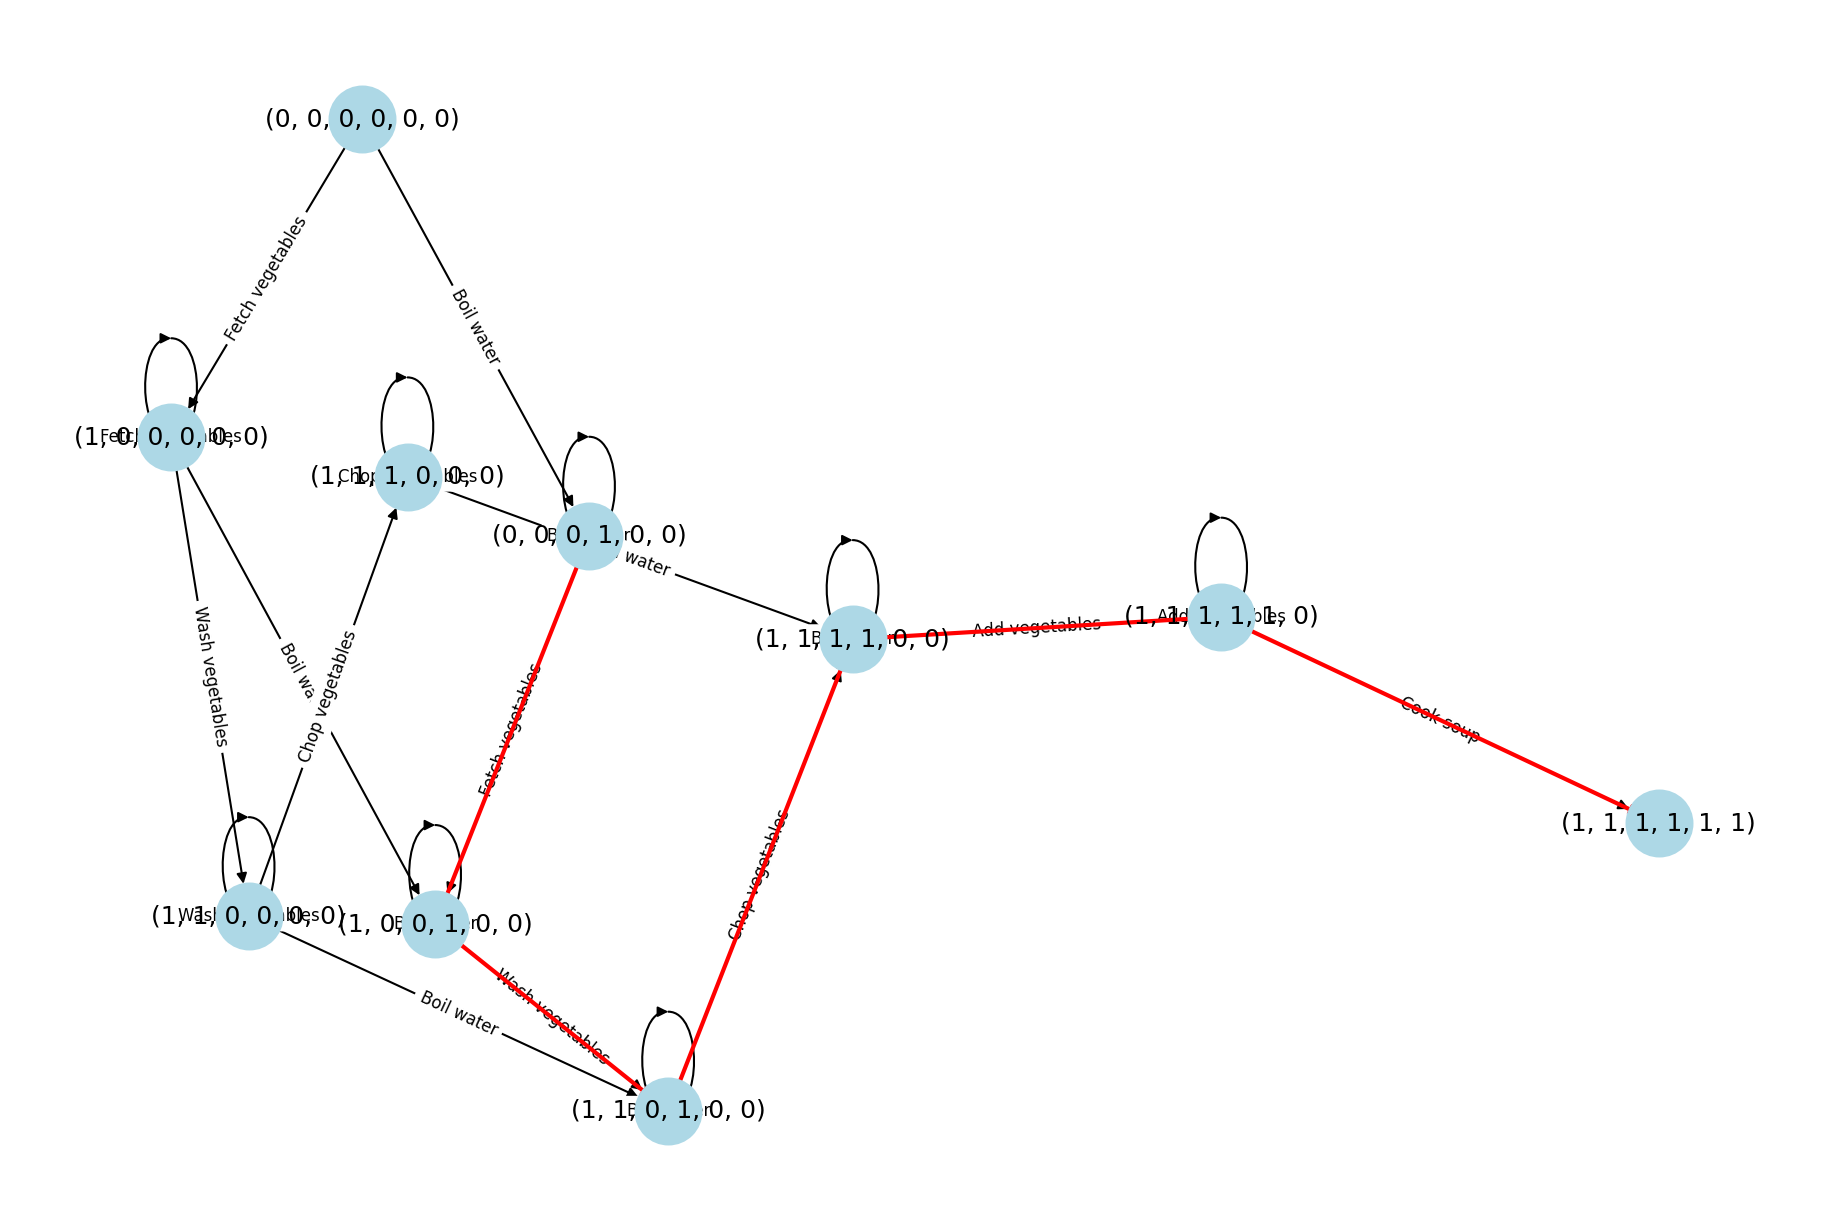
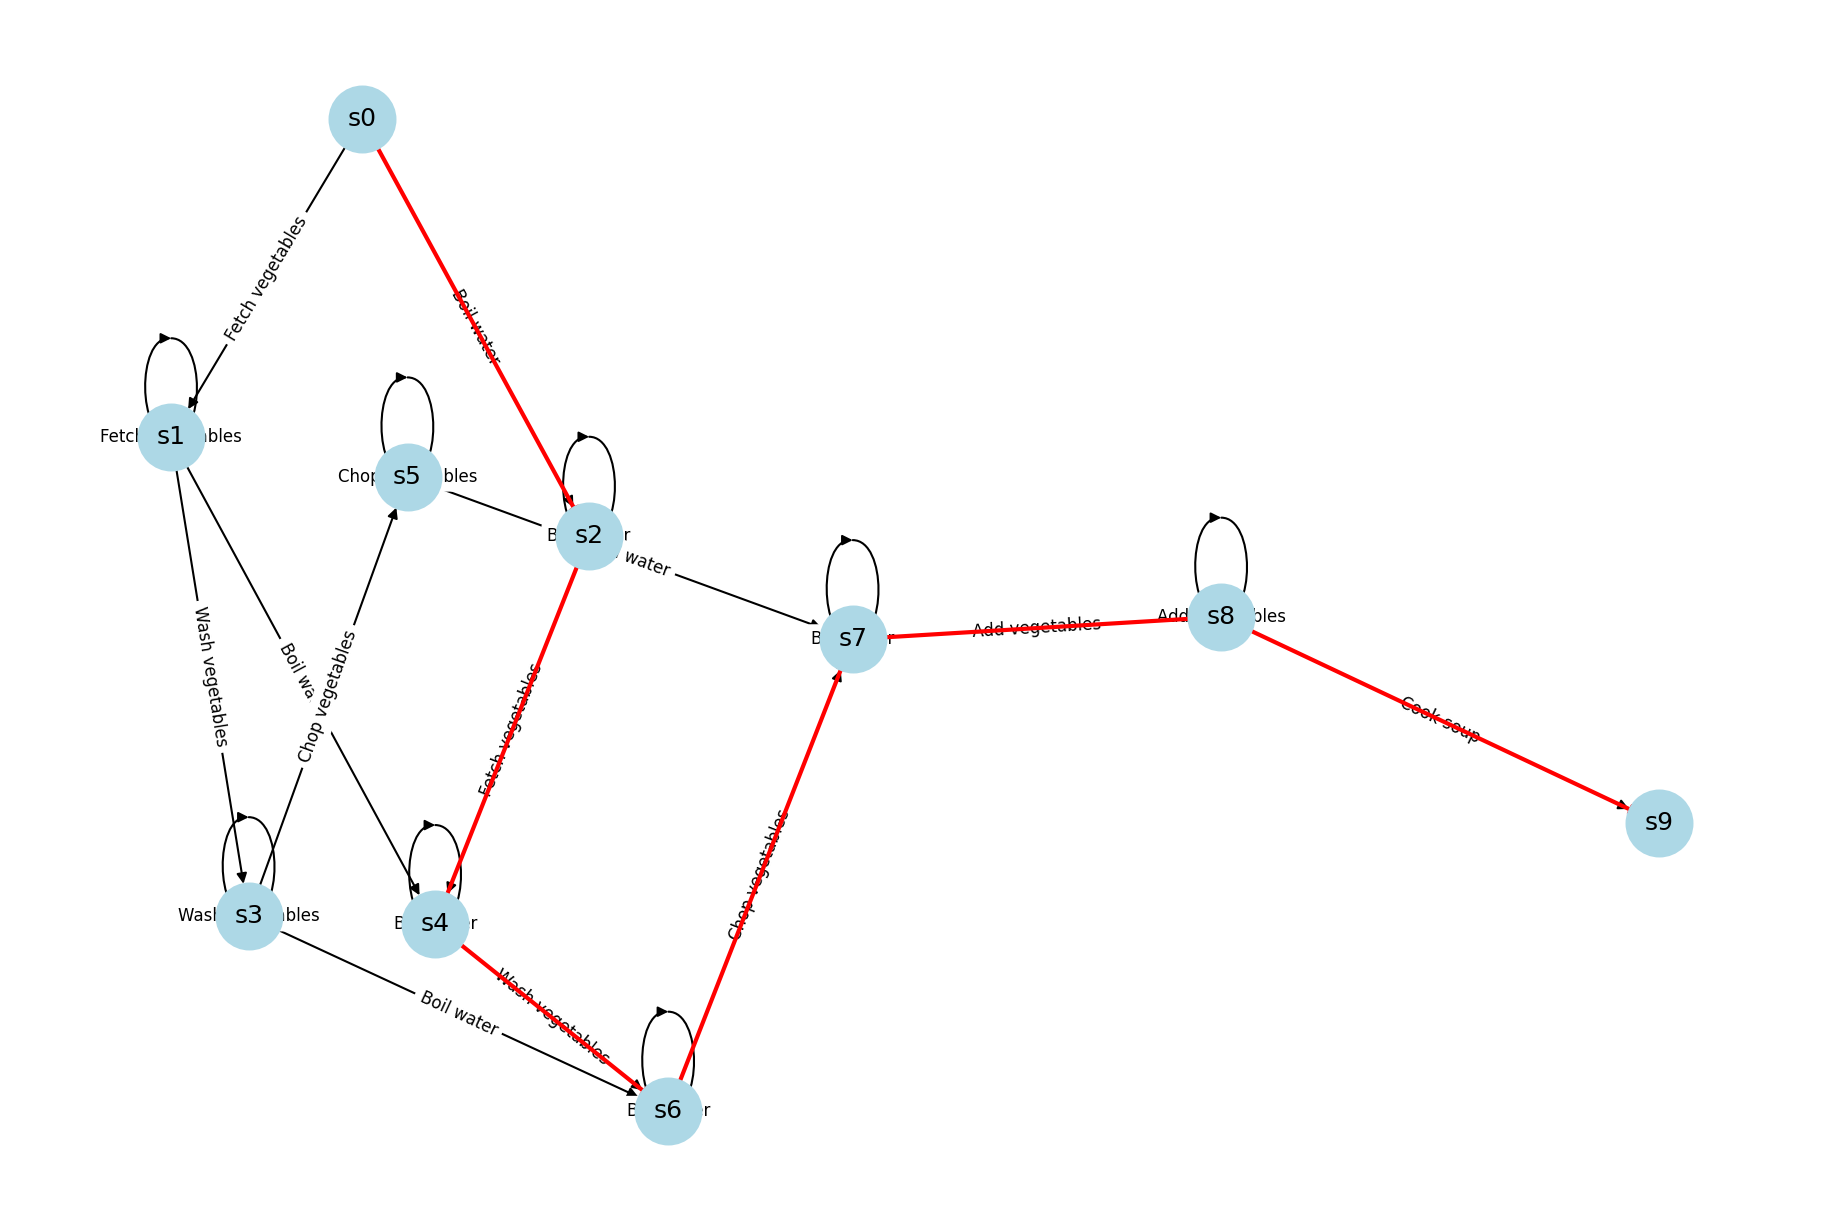
small changes

diff --git a/smart_kitchen_robot_planner.py b/smart_kitchen_robot_planner.py
@@ -1,5 +1,6 @@
 import networkx as nx
 import matplotlib.pyplot as plt
+import logging
 from queue import Queue, PriorityQueue
 import time
 
@@ -15,6 +16,9 @@ actions = {
 
 initial_state = (0,0,0,0,0,0)
 goal_state = (1,1,1,1,1,1)
+
+# configure basic logging for easier debugging
+logging.basicConfig(level=logging.INFO, format="%(levelname)s: %(message)s")
 
 def is_goal(state):
     return state == goal_state
@@ -92,21 +96,52 @@ def a_star(initial):
     return None, 0, nodes_expanded, G
 
 # Visualization function
-def draw_graph(G, path, filename="graph.png"):
+def draw_graph(G, path, filename="graph.png", initial_state=None):
+    """Draw the graph to a PNG file.
+
+    - path is a list of (action, to_state) tuples (as used in the searches).
+    - initial_state (optional) is used so the first edge on the path is highlighted.
+    - Node labels are shortened to s0, s1... to keep the plot readable.
+    """
     pos = nx.spring_layout(G, seed=42)
     plt.figure(figsize=(12,8))
-    nx.draw(G, pos, with_labels=True, node_size=1000, node_color='lightblue')
-    edge_labels = nx.get_edge_attributes(G,'label')
-    nx.draw_networkx_edge_labels(G, pos, edge_labels=edge_labels, font_size=8)
 
+    # Map full state tuples to short labels (s0, s1, ...)
+    nodes = list(G.nodes())
+    label_map = {nodes[i]: f"s{i}" for i in range(len(nodes))}
+
+    # Draw nodes with short labels
+    nx.draw(G, pos, labels=label_map, with_labels=True, node_size=1000, node_color='lightblue')
+    edge_labels = nx.get_edge_attributes(G, 'label')
+    # Replace edge label keys with short names for readability in the plot
+    short_edge_labels = {}
+    for (u, v), lbl in edge_labels.items():
+        short_u = label_map.get(u, str(u))
+        short_v = label_map.get(v, str(v))
+        short_edge_labels[(u, v)] = lbl
+    nx.draw_networkx_edge_labels(G, pos, edge_labels=short_edge_labels, font_size=8)
+
+    # Build the list of edges that form the path. Use initial_state to include first edge.
     path_edges = []
     if path:
-        prev_state = None
+        prev_state = initial_state
+        # If initial_state not provided, try to infer from graph (best-effort)
+        if prev_state is None:
+            # If path contains nodes, attempt to find a node in G that is not the first 'to' node
+            # This is a fallback and may not always work — providing initial_state is best.
+            prev_state = None
         for action, new_state in path:
             if prev_state is not None:
                 path_edges.append((prev_state, new_state))
             prev_state = new_state
-    nx.draw_networkx_edges(G, pos, edgelist=path_edges, edge_color='red', width=2)
+
+    # Draw highlighted path edges (if any) in red. Use short labels for selecting edges.
+    if path_edges:
+        # Ensure edges exist in the graph before drawing
+        valid_edges = [e for e in path_edges if G.has_edge(e[0], e[1])]
+        nx.draw_networkx_edges(G, pos, edgelist=valid_edges, edge_color='red', width=2)
+
+    # Save and close
     plt.savefig(filename, dpi=150, bbox_inches='tight')
     plt.close()
 
@@ -119,7 +154,7 @@ print("BFS Path:", [a for a,_ in bfs_path])
 print("BFS Total Cost:", bfs_cost)
 print("BFS Nodes Expanded:", bfs_nodes)
 print("BFS Execution Time (s):", round(bfs_time,6))
-draw_graph(bfs_graph, bfs_path, "bfs_graph.png")
+draw_graph(bfs_graph, bfs_path, "bfs_graph.png", initial_state=initial_state)
 
 # Run A*
 start_time = time.time()
@@ -130,7 +165,7 @@ print("A* Path:", [a for a,_ in astar_path])
 print("A* Total Cost:", astar_cost)
 print("A* Nodes Expanded:", astar_nodes)
 print("A* Execution Time (s):", round(astar_time,6))
-draw_graph(astar_graph, astar_path, "astar_graph.png")
+draw_graph(astar_graph, astar_path, "astar_graph.png", initial_state=initial_state)
 
 # Comparison Table
 print("\nComparison of BFS vs A*:")

diff --git a/README.md b/README.md
@@ -1,0 +1,113 @@
+# Smart Kitchen Robot Planner — Debugging & Run Instructions
+
+This project contains `smart_kitchen_robot_planner.py`, a small planner that runs BFS and A* over a tiny state space and writes two graph images: `bfs_graph.png` and `astar_graph.png`.
+
+Use this README to set up the environment, reproduce results, and debug the script step-by-step.
+
+Prerequisites
+- macOS with Python 3 installed (recommended: 3.8+).
+- A terminal using zsh (your default shell).
+
+Quick setup (recommended)
+1. Create and activate a virtual environment in the project directory:
+
+```zsh
+python3 -m venv .venv
+source .venv/bin/activate
+```
+
+2. Install runtime dependencies(ifyou don't have them already):
+
+```zsh
+.venv/bin/python3 -m pip install --upgrade pip setuptools wheel
+.venv/bin/python3 -m pip install networkx matplotlib
+```
+
+Run the script
+
+```zsh
+.venv/bin/python3 smart_kitchen_robot_planner.py
+```
+
+This should print summary info for BFS and A* and create `bfs_graph.png` and `astar_graph.png` in the same folder.
+
+Windows instructions (PowerShell and cmd)
+-------------------------------------
+
+If you're on Windows, use the following steps. These examples show PowerShell then cmd variants.
+
+1) Create a virtual environment
+
+PowerShell:
+
+```powershell
+python -m venv .venv
+.\.venv\Scripts\Activate.ps1
+```
+
+cmd.exe:
+
+```cmd
+python -m venv .venv
+.\.venv\Scripts\activate.bat
+```
+
+2) Install dependencies
+
+PowerShell / cmd (after activating the venv):
+
+```powershell
+python -m pip install --upgrade pip setuptools wheel
+python -m pip install networkx matplotlib
+```
+
+3) Run the script
+
+PowerShell / cmd:
+
+```powershell
+python smart_kitchen_robot_planner.py
+```
+
+This will print the BFS / A* summaries and create `bfs_graph.png` and `astar_graph.png` in the project folder.
+
+Debugging on Windows
+--------------------
+
+- Use the traceback: when an exception occurs, copy the full traceback and note the file and line number shown.
+- Interactive debugger (pdb / ipdb):
+	- Run under pdb:
+
+```powershell
+python -m pdb smart_kitchen_robot_planner.py
+```
+
+	- Install and run ipdb for a nicer shell:
+
+```powershell
+python -m pip install ipdb
+python -m ipdb smart_kitchen_robot_planner.py
+```
+
+- Programmatic breakpoints: add `import pdb; pdb.set_trace()` (or `import ipdb; ipdb.set_trace()`) in the file where you want to inspect variables.
+
+- VS Code debugger on Windows:
+	1. Open the project folder in VS Code.
+	2. Install the Python extension if you haven't already.
+	3. Select the interpreter (Command Palette -> "Python: Select Interpreter") and pick the `.venv\Scripts\python.exe` interpreter.
+	4. Open `smart_kitchen_robot_planner.py`, set breakpoints by clicking the gutter, then Run > Start Debugging (F5). You can inspect variables, step, and evaluate expressions in the Debug Console.
+
+Notes
+-----
+- If PowerShell blocks running scripts, you may need to change the execution policy (PowerShell opened as Admin):
+
+```powershell
+Set-ExecutionPolicy -ExecutionPolicy RemoteSigned -Scope CurrentUser
+```
+
+	Only change the policy if you understand the security implications; the venv activation script may be blocked by strict policies.
+
+- If you don't want to create a venv, you can install dependencies globally (not recommended) with `python -m pip install networkx matplotlib` and run `python smart_kitchen_robot_planner.py`.
+
+---
+
